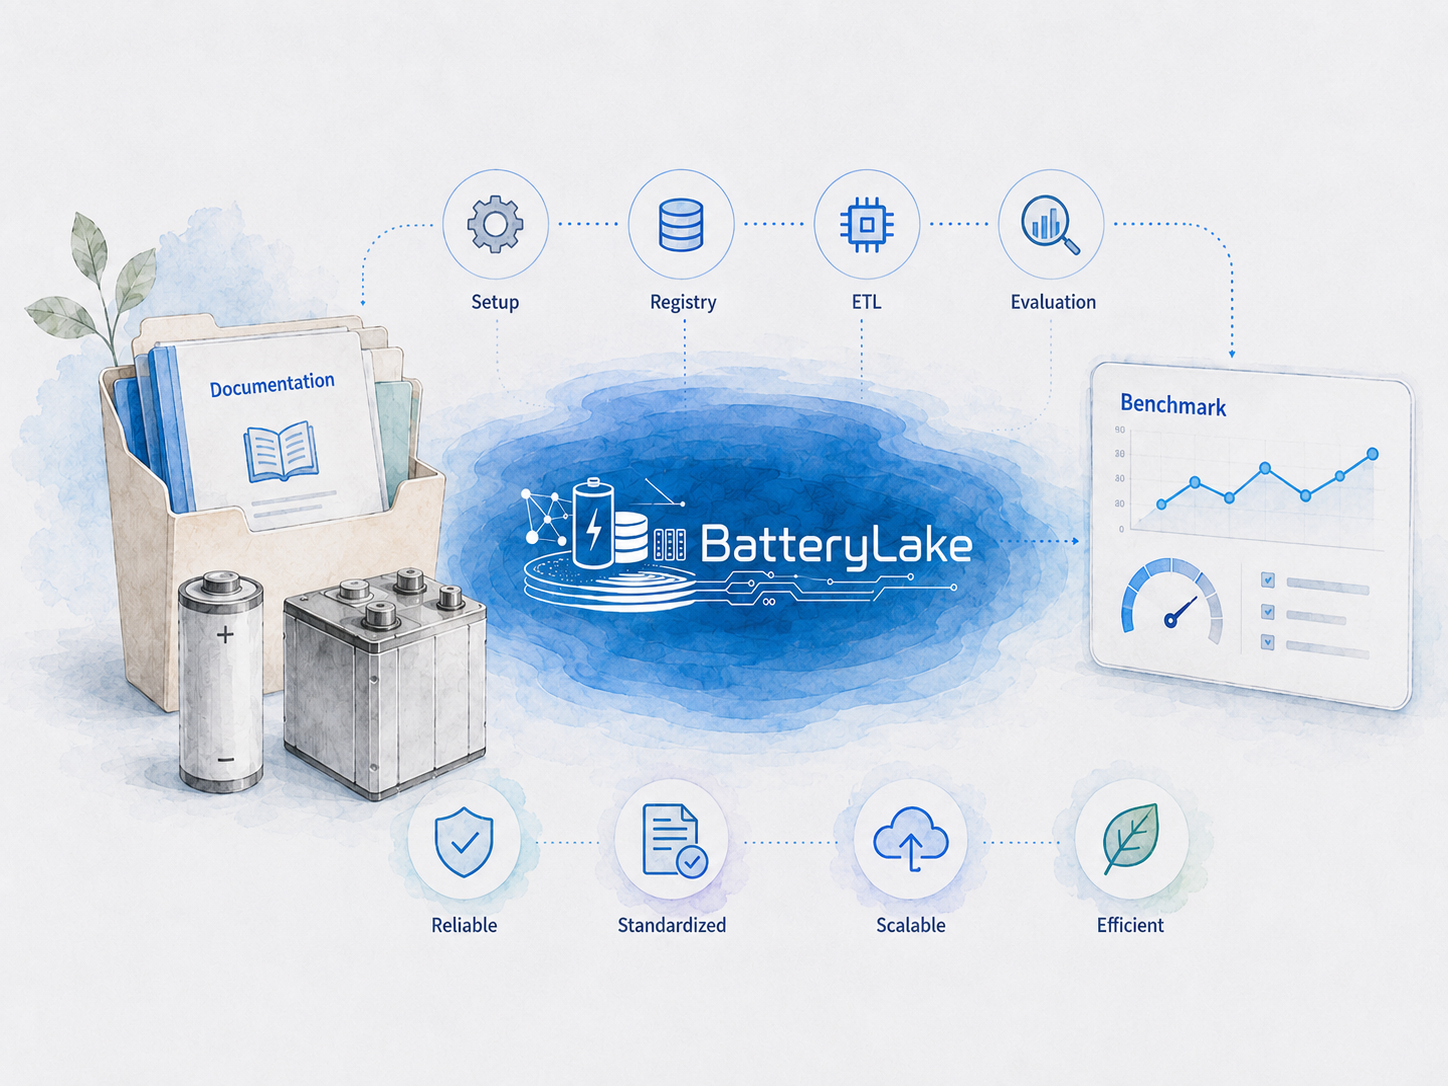
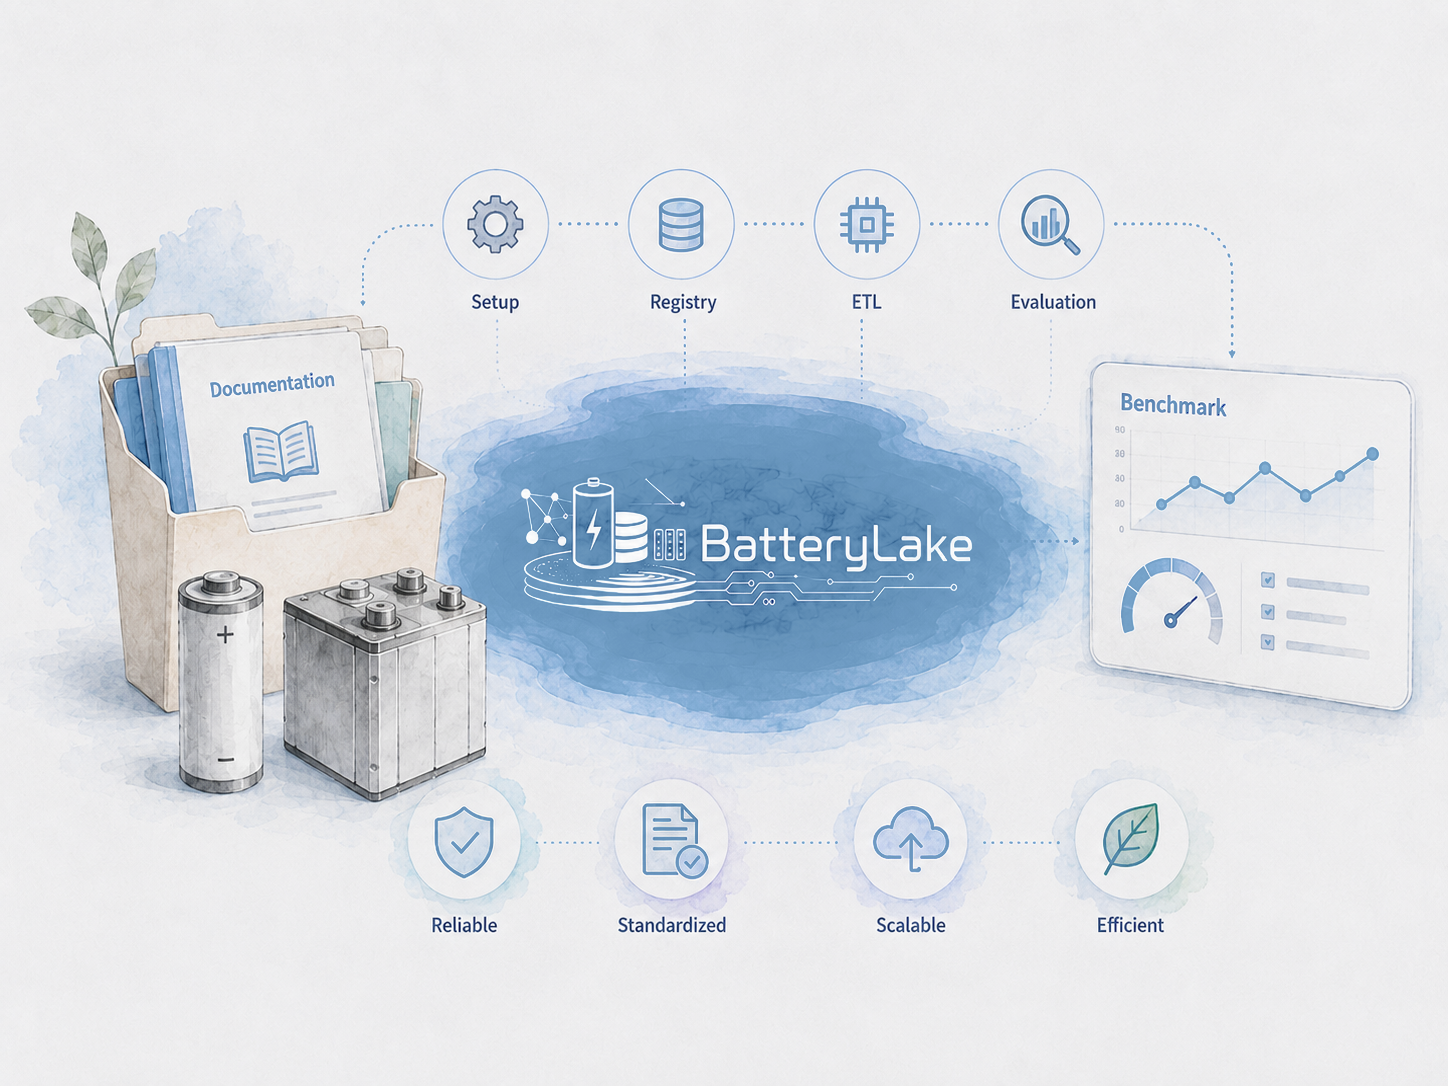
Harmonize reference hero artwork

diff --git a/index.html b/index.html
@@ -1154,7 +1154,7 @@ bash run_benchmark.sh</pre>
         <span>machine readable</span>
         <span>dataset metadata</span>
       </div>
-      <img class="naming-hero-art visual-page-hero-art" src="assets/images/naming-hero-reference-transparent.png?v=1" alt="" aria-hidden="true">
+      <img class="naming-hero-art visual-page-hero-art" src="assets/images/naming-hero-reference-transparent.png?v=3" alt="" aria-hidden="true">
     </div>
 
     <div class="naming-formula">
@@ -1221,7 +1221,7 @@ bash run_benchmark.sh</pre>
         <span>schema validation</span>
         <span>benchmark ready</span>
       </div>
-      <img class="reference-hero-art pipeline-hero-art visual-page-hero-art" src="assets/images/etl-pipeline-hero-reference-transparent.png?v=2" alt="" aria-hidden="true">
+      <img class="reference-hero-art pipeline-hero-art visual-page-hero-art" src="assets/images/etl-pipeline-hero-reference-transparent.png?v=4" alt="" aria-hidden="true">
     </div>
 
     <div class="pipeline-flow etl-flow-card" aria-label="ETL pipeline orchestration">
@@ -1348,7 +1348,7 @@ bash run_benchmark.sh</pre>
         <span>dataset registry</span>
         <span>evaluation framework</span>
       </div>
-      <img class="reference-hero-art docs-hero-art visual-page-hero-art" src="assets/images/documentation-hero-reference-transparent.png?v=1" alt="" aria-hidden="true">
+      <img class="reference-hero-art docs-hero-art visual-page-hero-art" src="assets/images/documentation-hero-reference-transparent.png?v=3" alt="" aria-hidden="true">
     </div>
     <div class="docs-content">
       <section class="docs-card">

diff --git a/styles/polish.css b/styles/polish.css
@@ -5163,7 +5163,7 @@ pre {
   width: min(454px, 44%);
   max-height: calc(100% - 24px);
   object-fit: contain;
-  filter: drop-shadow(0 20px 38px rgba(15,23,42,.08));
+  filter: saturate(.82) brightness(1.04) contrast(.94) drop-shadow(0 20px 38px rgba(15,23,42,.07));
   transform: translateY(-50%);
 }
 
@@ -5581,7 +5581,7 @@ pre {
   width: min(454px, 44%);
   max-height: calc(100% - 24px);
   object-fit: contain;
-  filter: drop-shadow(0 20px 38px rgba(15,23,42,.08));
+  filter: saturate(.82) brightness(1.04) contrast(.94) drop-shadow(0 20px 38px rgba(15,23,42,.07));
   transform: translateY(-50%);
 }
 
